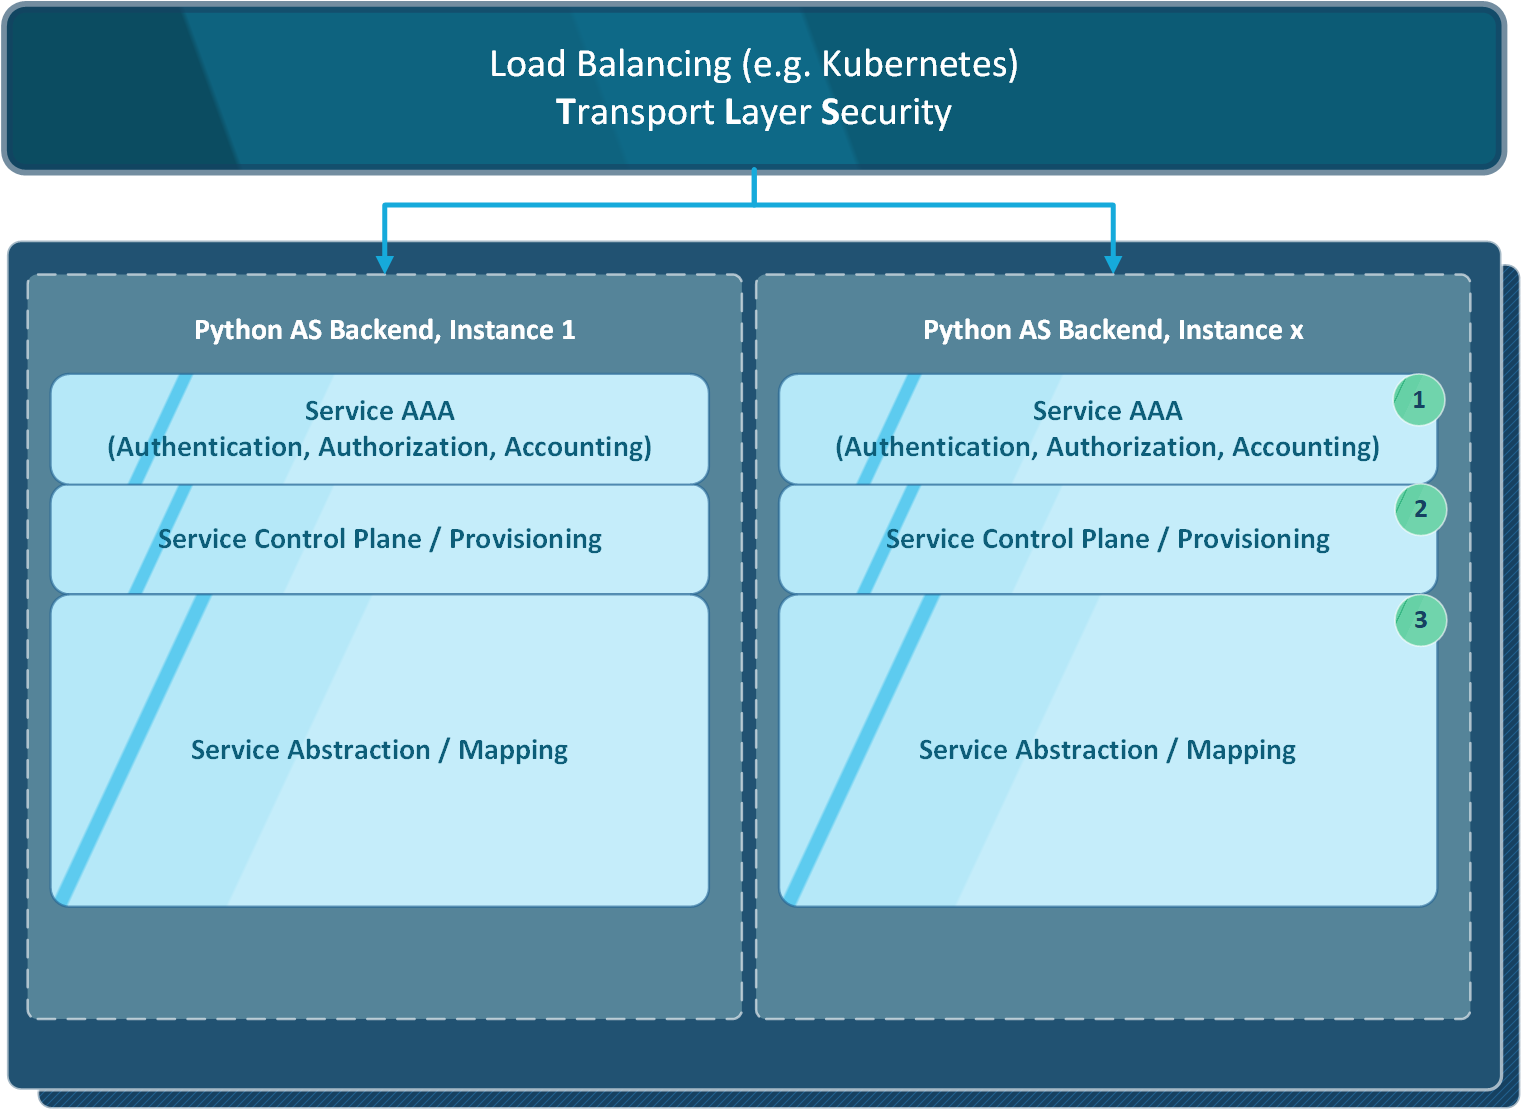
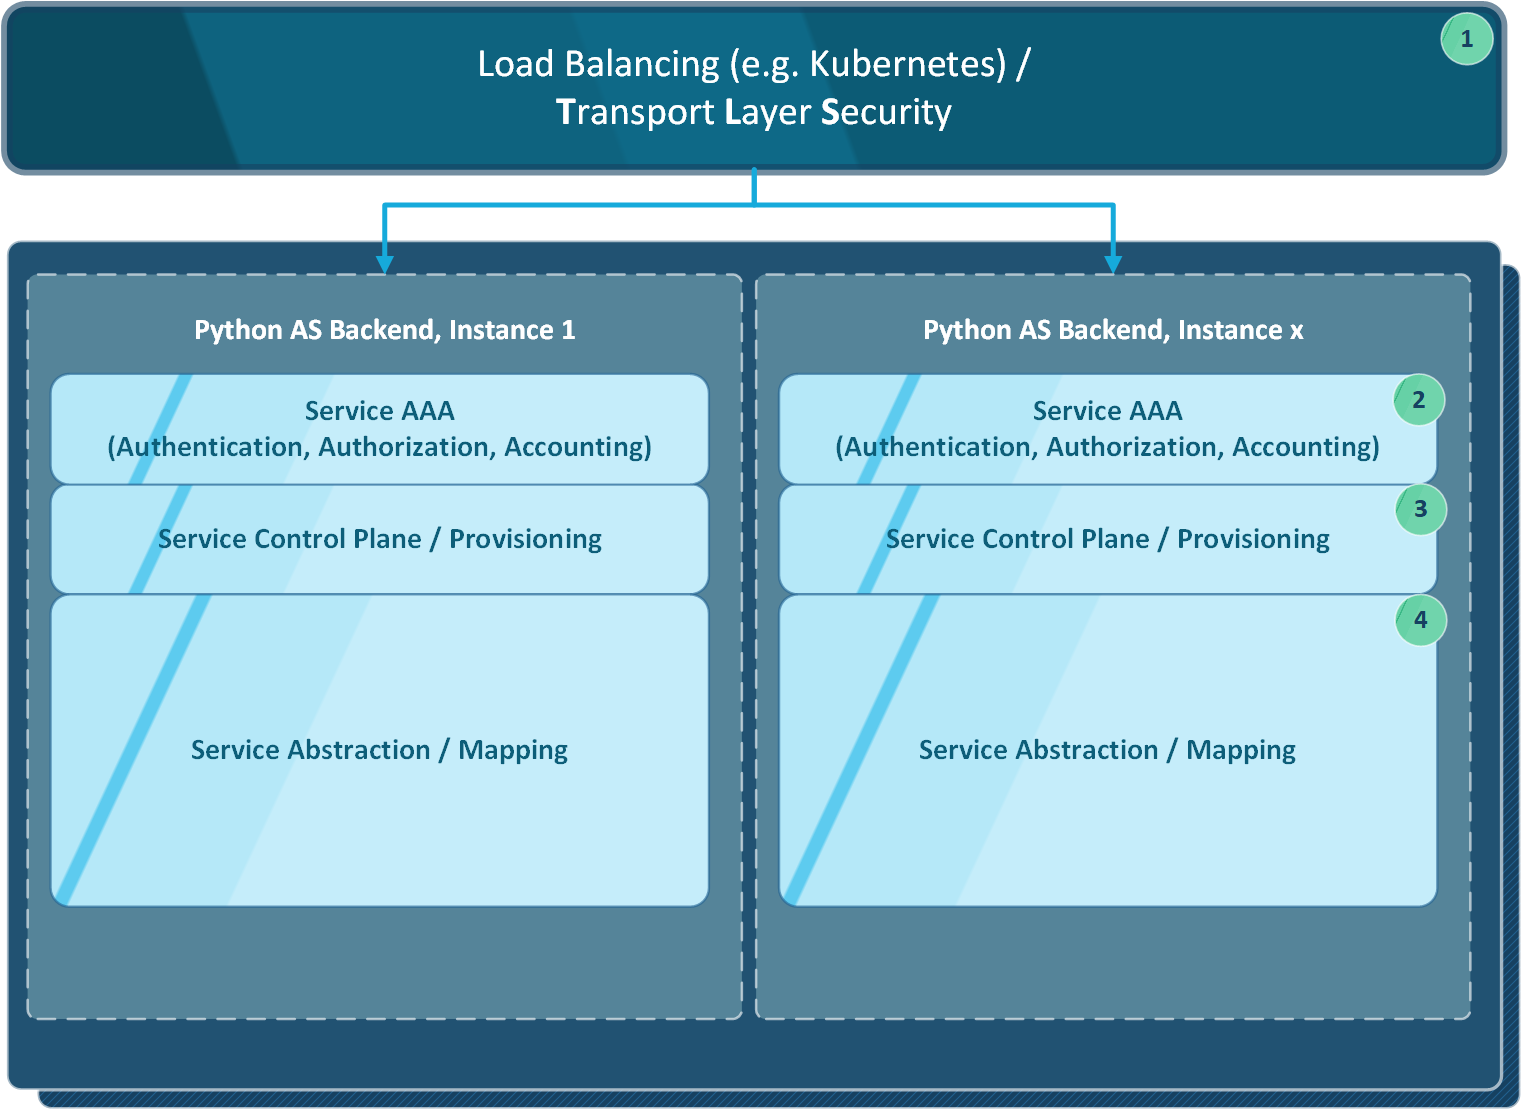
Update documentation "Design"

Changed region(s): [[0.3086, 0.0306, 0.6789, 0.0918], [0.9258, 0.0, 0.9875, 0.0612]]

diff --git a/doc/source/design.rst b/doc/source/design.rst
@@ -7,7 +7,8 @@ Design
 1. Overview
 ===========
 
-The following diagram shows the *Base Layout / Model* of a scalable **ESB Infrastructure**.
+The following diagram shows the *Base Layout / Model* of a **scalable**
+*SOA / ESB Infrastructure*.
 
 - Loadbalancing Layer (1)
 - Transport Layer Security Layer (1)
@@ -22,8 +23,8 @@ The following diagram shows the *Base Layout / Model* of a scalable **ESB Infras
     The **microesb** module focuses on the "Service Mapping / Abstraction Layer" (4).
 
 .. note::
-    The "Loadbalancing Layer" and the "Transport Layer Security Layer" easily can be adapted
-    using a Kubernetes Cluster / Ingress-nginX (see "Example #2").
+    The "Loadbalancing Layer" and the "Transport Layer Security Layer" easily can be
+    adapted using a Kubernetes Cluster / Ingress-nginX (see "Example #2").
 
 2. Centralized Service Management
 =================================
@@ -39,27 +40,46 @@ Service Oriented Architecture.
 
 The common workflow in a CI driven, recurring, agile Devlopment Process.
 
-1. Build
-2. Test
-3. Deploy
-4. Maintain
+1. Build Infrastructure
+2. Build Application
+3. Test
+4. Deploy
+5. Maintain
 
 2.2. Standards / Generic Aproach
 ********************************
 
-The better standards / infrastructural templates are organized, the more developers can
-focus on the Development Process. Especially in big Development Environments / Teams.
+Our goal should be to reduce the effort dependent on point 1 and the resulting
+(correspondingly high) periodic recurring costs.
+
+The better *Standards / Infrastructural Templates* are organized, the more developers can
+focus on the *Development Process*. Especially in large, agile development teams, it is
+essential to adapt the IP infrastructure to constantly changing needs without a lot of
+(sometimes even bureaucratic) effort.
+
+A well designed, documented, automatically updated, centralized, generic **Services Registry**
+component inside SOA will help developers saving a lot of headaches.
+
+.. note::
+    This needs a lot of RFC / standardization work to be done.
 
 2.3. External Service Integration
 *********************************
 
-...
+Also, don’t forget the numerous external (rented) services that need to be managed at all
+levels inside the company.
+
+- Metrics / Statistics
+- Authentication
+
+.. note::
+    *Wrapping* these external services into a centralized SOA also could be a good idea.
 
 3. Service Mapping
 ==================
 
-Service mapping between hierarchical JSON graph data and internal python classes. This is exactly
-what the **microesb** python module is capable of.
+Service mapping between hierarchical JSON graph data and internal python classes. This is
+exactly what the **microesb** python module is capable of.
 
 .. image:: images/microesb-service-mapping.png
   :alt: Image - Micro-ESB Service Mapping / Abstraction Layer

diff --git a/doc/source/intro.rst b/doc/source/intro.rst
@@ -53,7 +53,7 @@ To run all tests (unit and integration) after pip package installation.
 5. Current Features
 ===================
 
-- Service JSON to Python Internal Class / Object Mapping
+- JSON Service Metadata to Python Internal Class / Object Mapping
 
 6. Planned Features
 ===================

diff --git a/doc/source/index.rst b/doc/source/index.rst
@@ -4,7 +4,7 @@ Python Module "microesb" Documentation
 Contents:
 
 .. toctree::
-   :maxdepth: 4
+   :maxdepth: 3
 
    intro
    design
